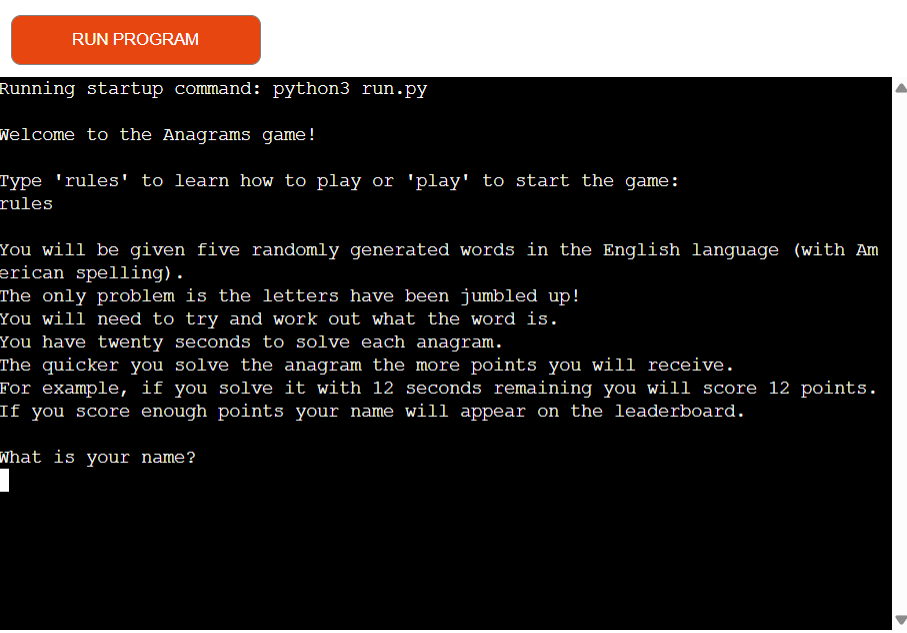
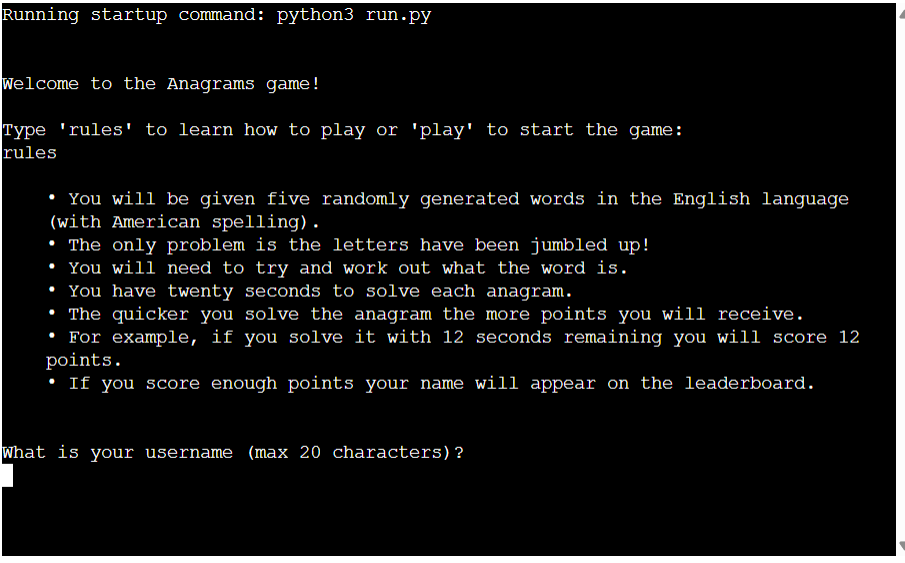
complete features and bugs section on readme file.

Changed region(s): [[0.0, 0.0, 1.0, 0.9964], [0.0, 0.6945, 0.526, 0.8757]]

diff --git a/README.md b/README.md
@@ -19,32 +19,73 @@ This is the text the user will read if they select 'rules' as the first option i
 - If you score enough points your name will appear on the leaderboard.
 
 ## Features
+The website has a number of features to aid the user experience:
 
 ### Rules
+At the start, the user will be given the option of reading the rules. If they already know how to play they will be able to go straight to the game.
+
+![rules text](readme-resources/rules.png)
 
 ### Opportunity to enter your name
+The user will have an opportunity to enter a username. This will later be used for the leaderboard. Characters are set to a maximum of 20 to avoid issues when presenting the leaderboard at a later stage.
+
+![input username text](readme-resources/username.png)
 
 ### A difficulty selector
+Next, the user is able to select a difficulty level. This will determine the number of letters in the anagram.
+
+![Difficulty selection text](readme-resources/difficulty-selector.png)
 
 ### Random word generation
+A random word is generated from a list of words in a txt file, in a length inkeeping with the difficulty set. The letters are jumbled to create an anagram. Users have a time limit to correctly solve the anagram.
 
-### A Timer
+### Timer
+The user has 20 seconds to solve the anagram before running out of time.
+
+![Time is up](readme-resources/time-up.png)
 
 ### A Solution Check
+If an attempt is inputted as a solution, the program will check if it matches the original word and feedback appropriately. Correct answers will score points based on how many seconds are remaining.
+
+![Incorrect answer](readme-resources/incorrect-answer.png)
+
+![Correct answer](readme-resources/correct-answer.png)
+
+On rare occasions, the user may input a word that is in the txt file and a correct word in the English language but not the answer the program was expecting. In these occurences the program does check and feedback that the answer is correct.
+
+![Different correct answer](readme-resources/valid-anagram-screenshot.png)
+
 
 ### A Score
+After five anagrams, the program totals the score and checks to see if it has made the Google sheet used to store the leadboard data. It rearranges the data as necessary.
+
+![end game score](readme-resources/game-end.png)
 
 ### A Leaderboard
 
+The user is then given the opportunity to view a leaderboard, play again or exit. If the leaderboard has already been viewed this option is removed for the question after viewing it.
+
+![leaderboard](readme-resources/leaderboard.png)
+
 ## Data Model
+To improve readability and maintainability, I split my code into three separate .py files. I created a class (WordSelector) to handle reading and storing the word data from words.txt, which avoids the need to re-read the file every time a word is needed. This class also contains methods for selecting a word based on the chosen difficulty and jumbling the letters to create an anagram.
+
+Using a class in this way helps separate word-handling logic from the main gameplay and leaderboard functionality, which are handled in their own modules. This structure not only keeps the code organised but also makes it easier to extend or modify the game in the future without major rewrites.
 
 ## Testing
 
+### Validation
+
 ## Bugs
+A number of bugs were found during the testing process at various occurences.
 
 ### Solved Bugs
+After implementing the countdown timer and linking this with scoring, it was revealed that on occasions players were scoring one fewer point than they should have done when correctly solving an anagram. One particular test resulted in an anagram being solved in 19 seconds (1 second remaining) but scoring 0 points. This was due to the rounding method used to calculate the time remaining occasionally rounding down. Using math.ceil ensured that the time remaining is always rounded up, correcting the scoring.
+
+Playtesting revealed that if a user attempted to type an answer just as the time was running out, then pressed enter once it had run out, this resulted in an answer being submitted for the next question which was inevitably incorrect. To fix this, a 'pause' was coded in to the program between the first four questions to ensure the user was ready to move on. 
 
 ### Remaining Bugs
+There is still a bug relating to the words.txt file used. Currently, there are still occurences where a user will type in a correct answers that uses the right letters and is a word in the English language but is not in the words.txt file. On this occasion the program will check the txt file for other suitable answers but will not be able to find one. To completely aleviate this issue a much larger dictionary would need to be used to check answers. This dictionary could not be used for the generation of the words at it would regularly find obscure and unusual English words, which would be frustrating for the user.
 
 ## Deployment
 
